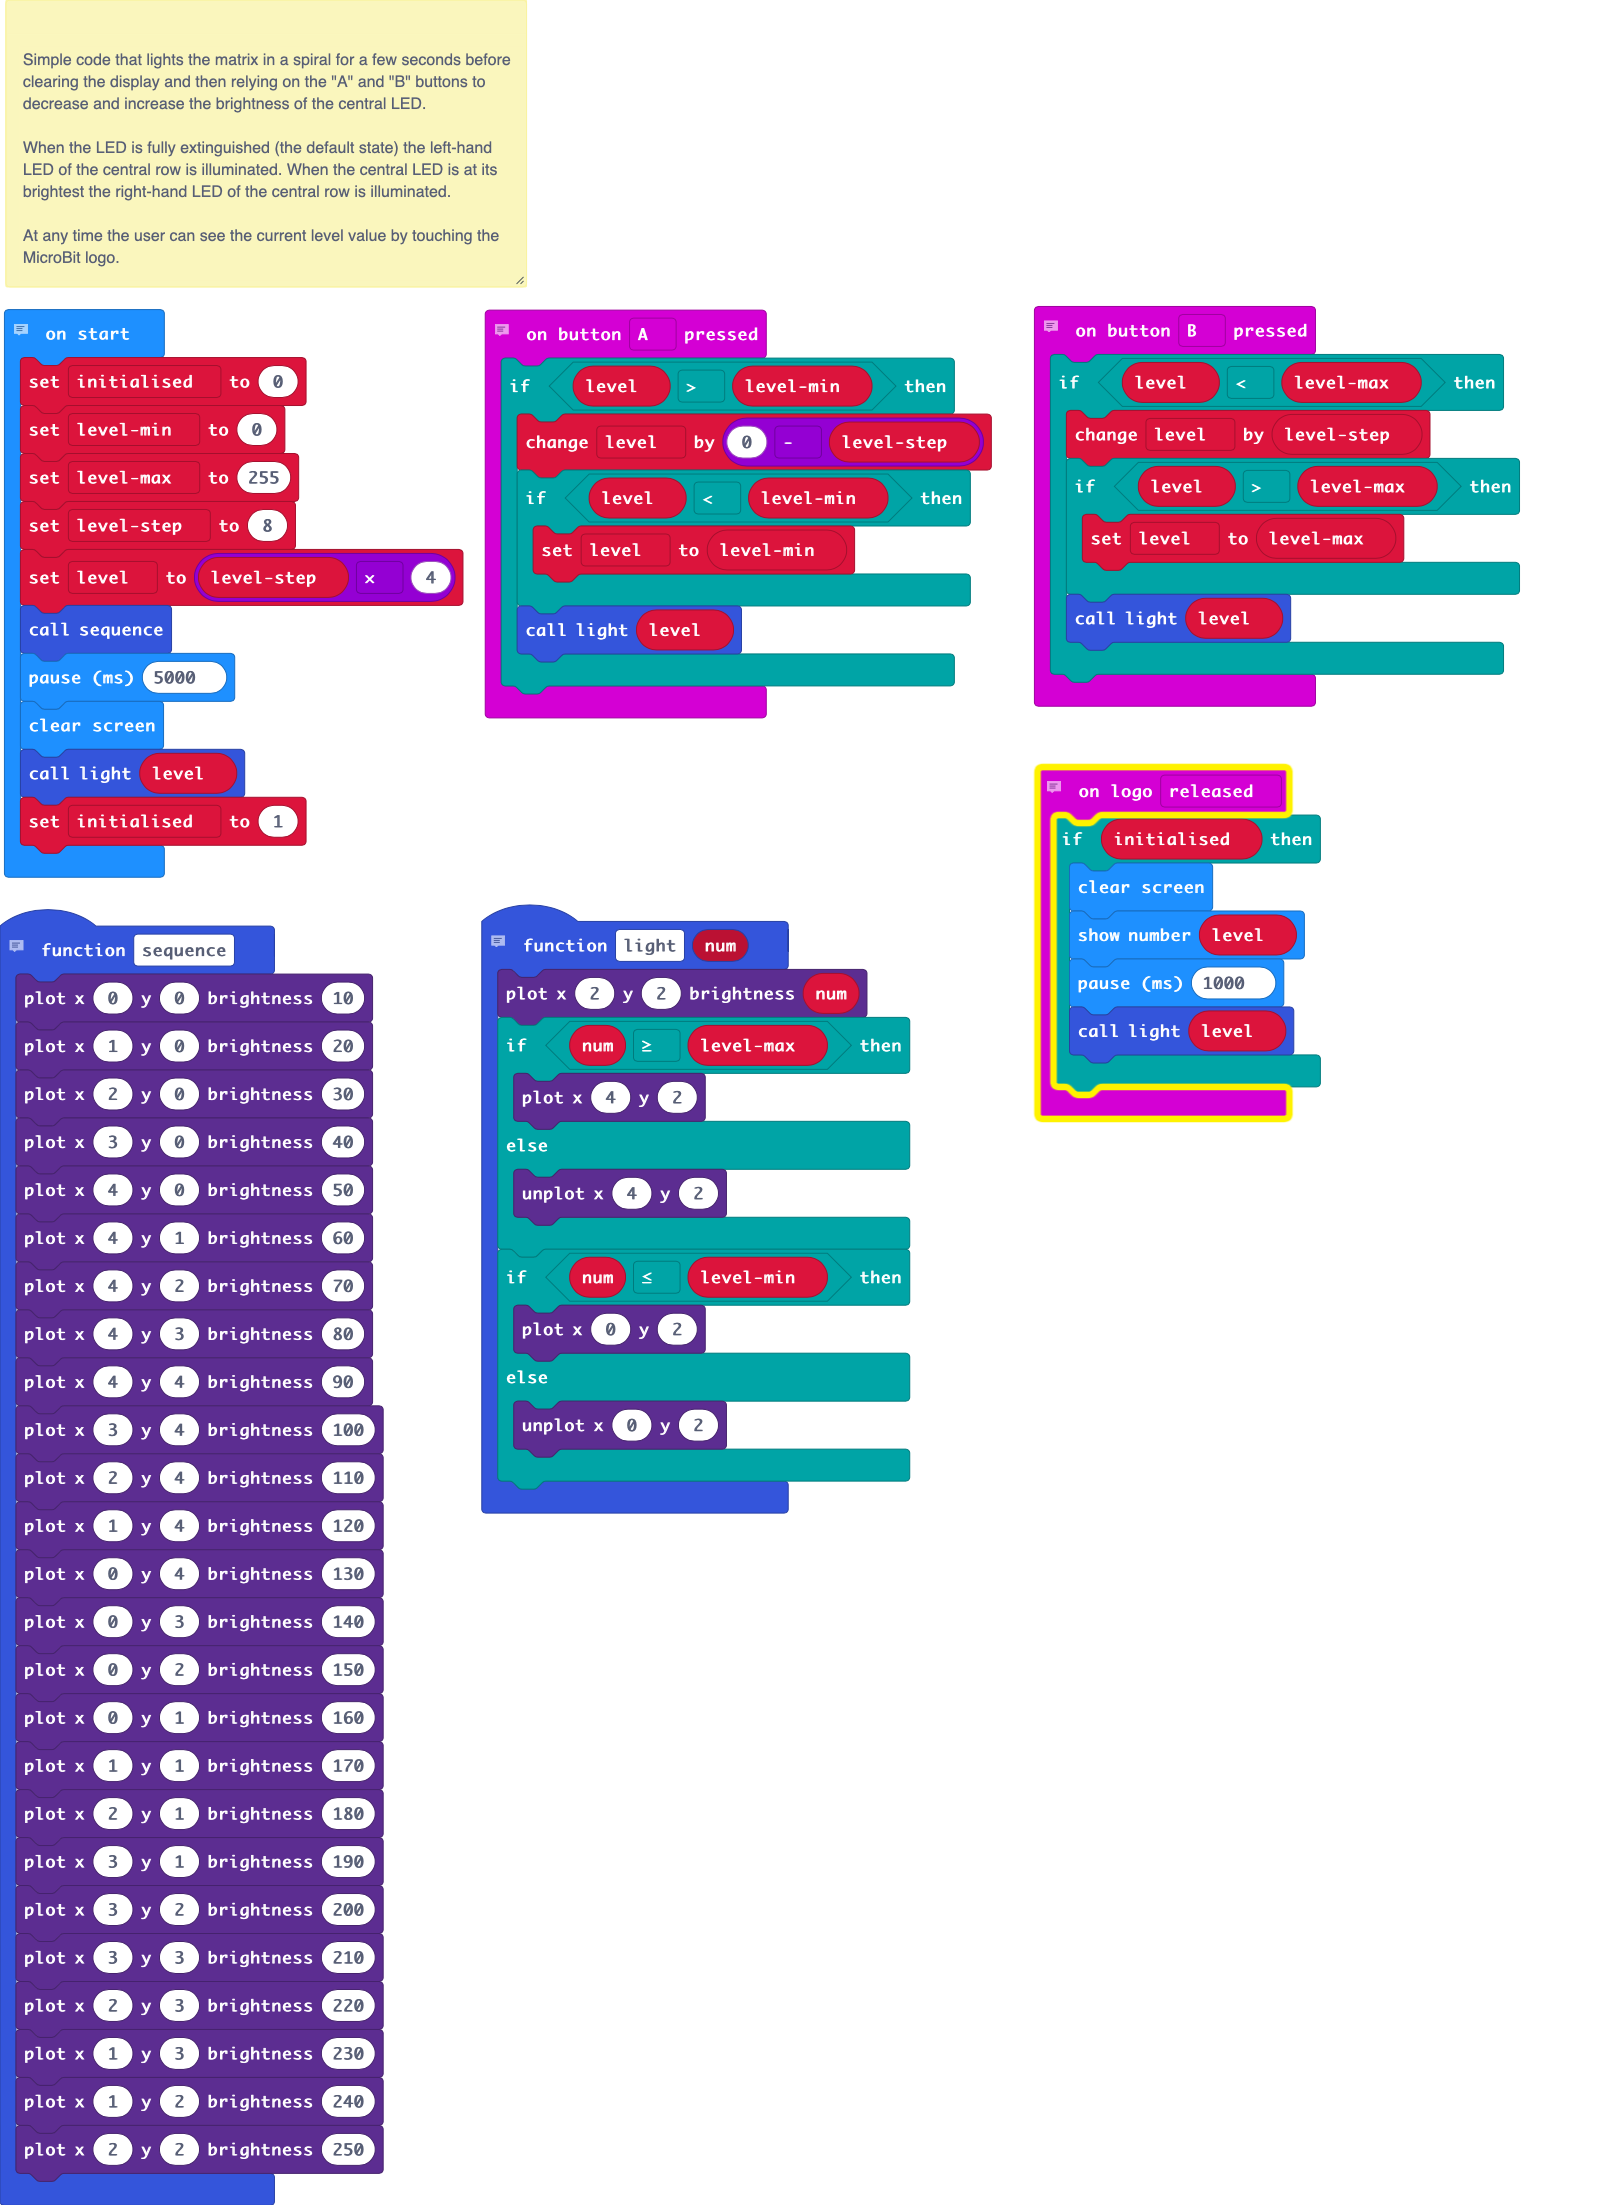
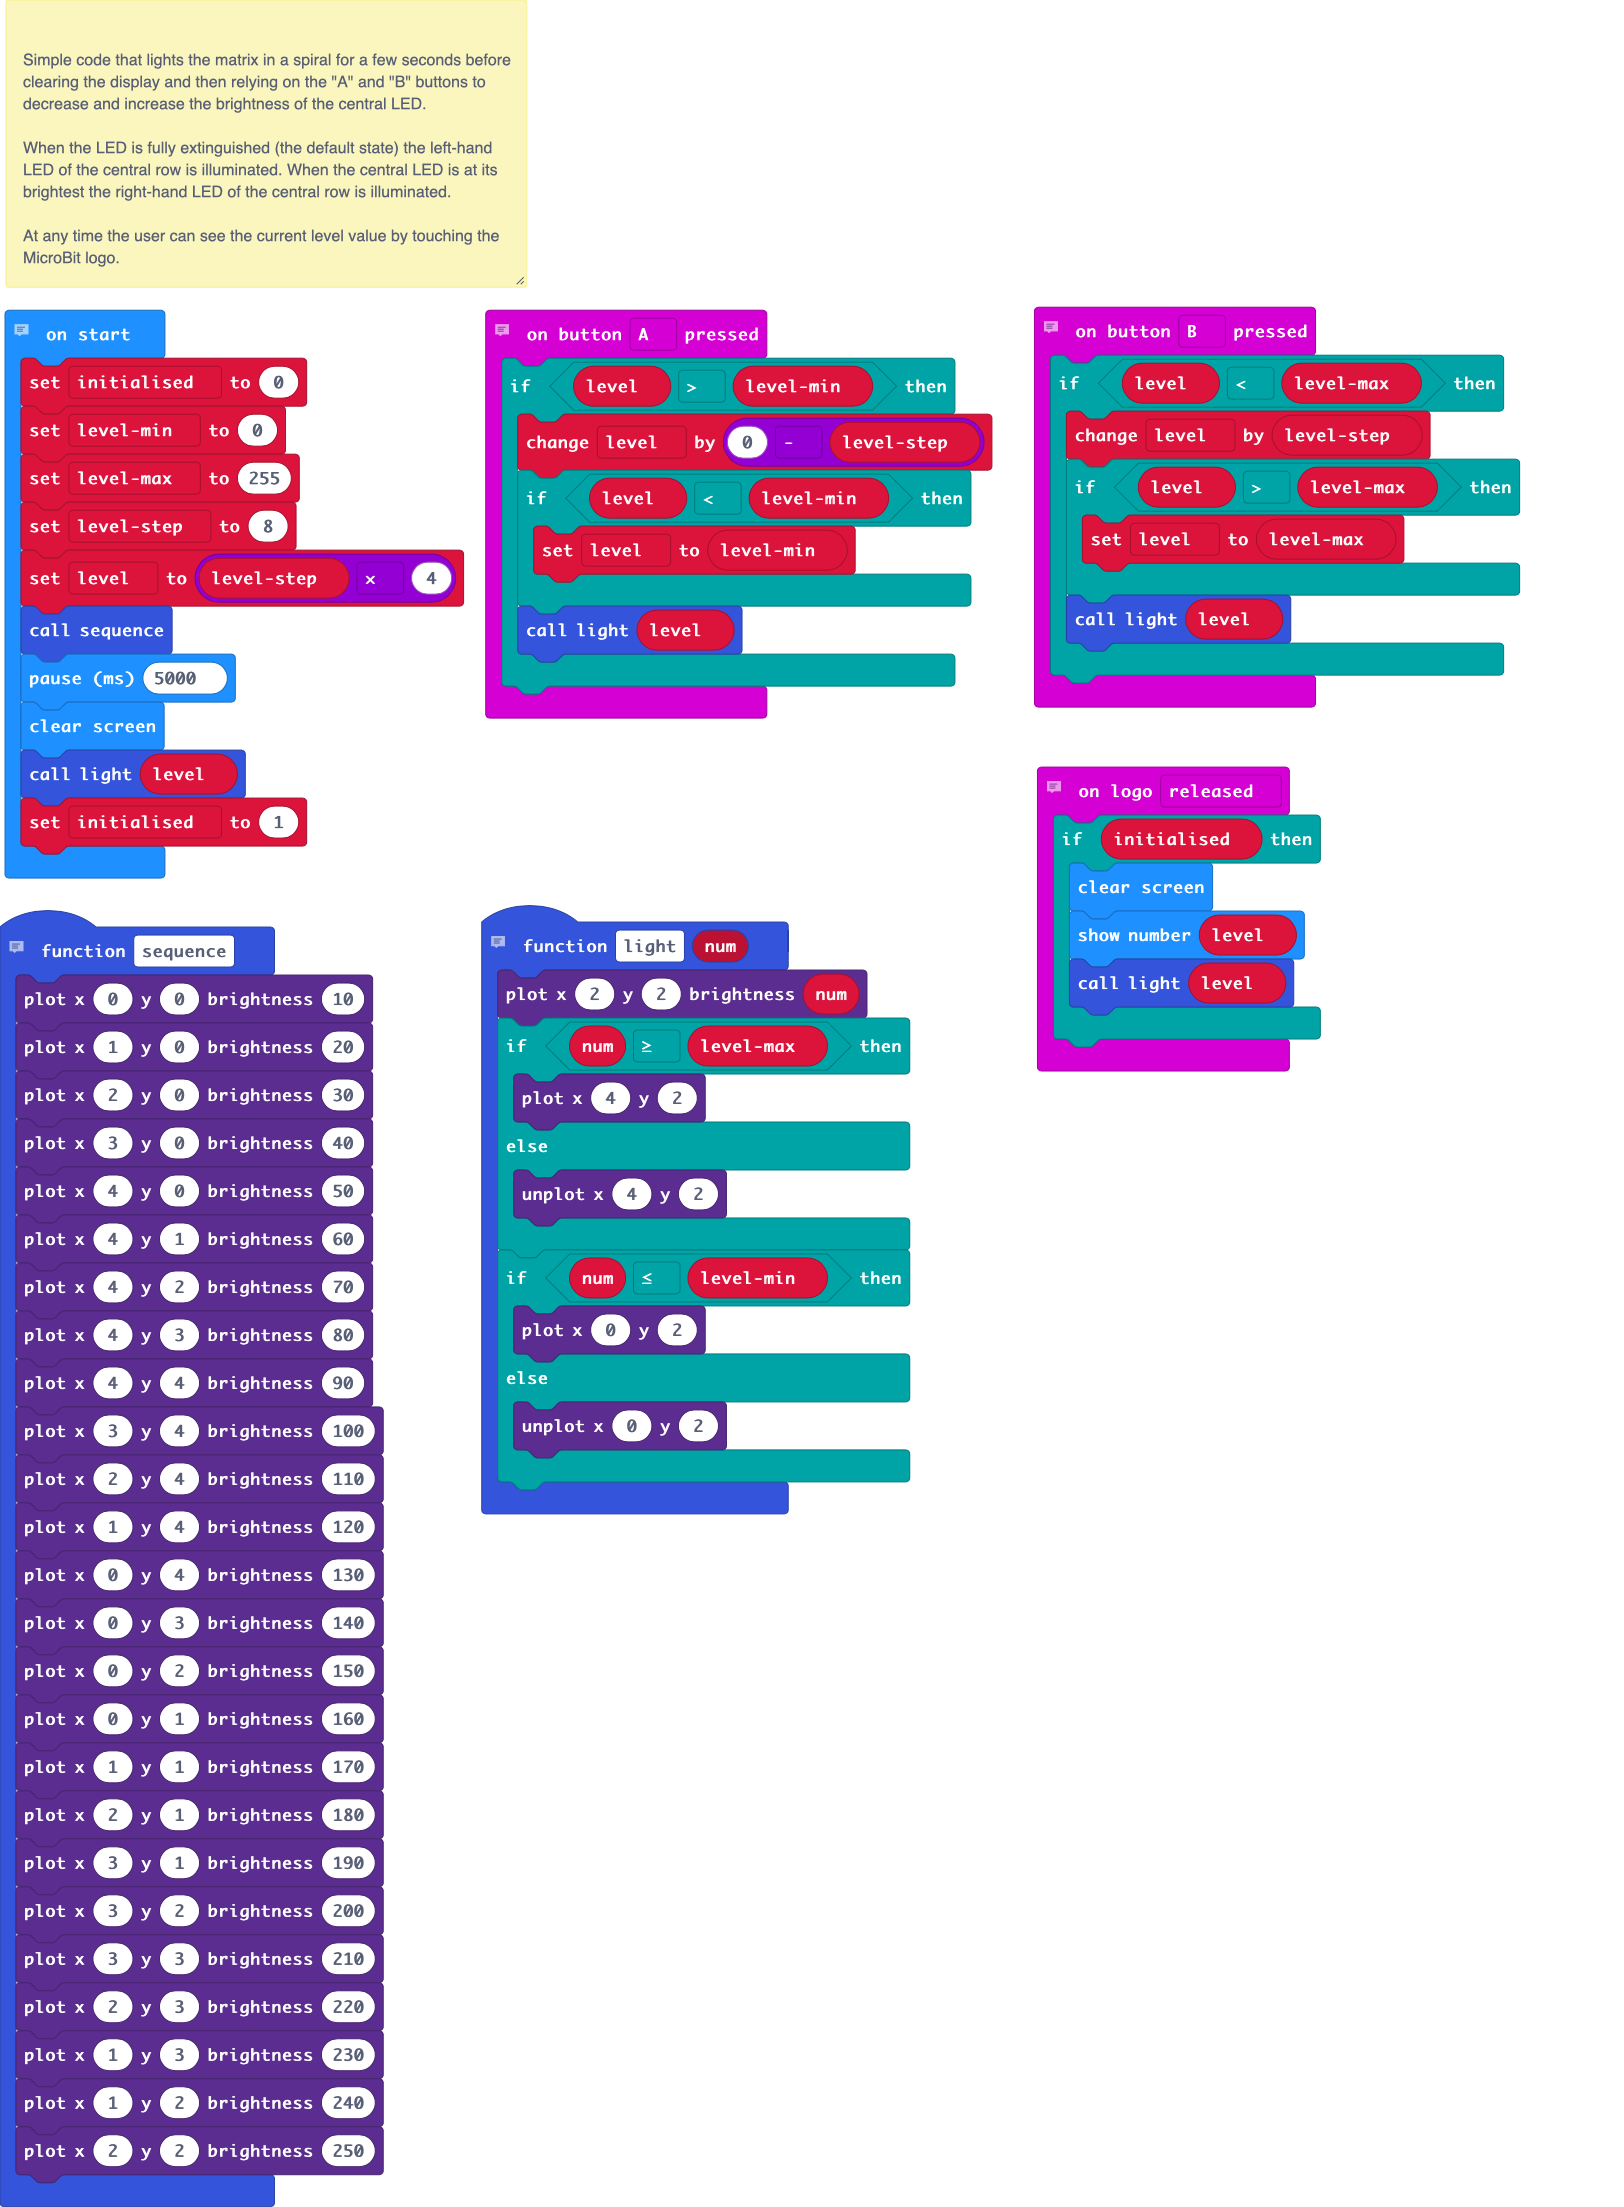
No pause after displaying level

diff --git a/main.ts b/main.ts
@@ -72,7 +72,6 @@ input.onLogoEvent(TouchButtonEvent.Released, function () {
     if (initialised) {
         basic.clearScreen()
         basic.showNumber(level)
-        basic.pause(1000)
         light2(level)
     }
 })
